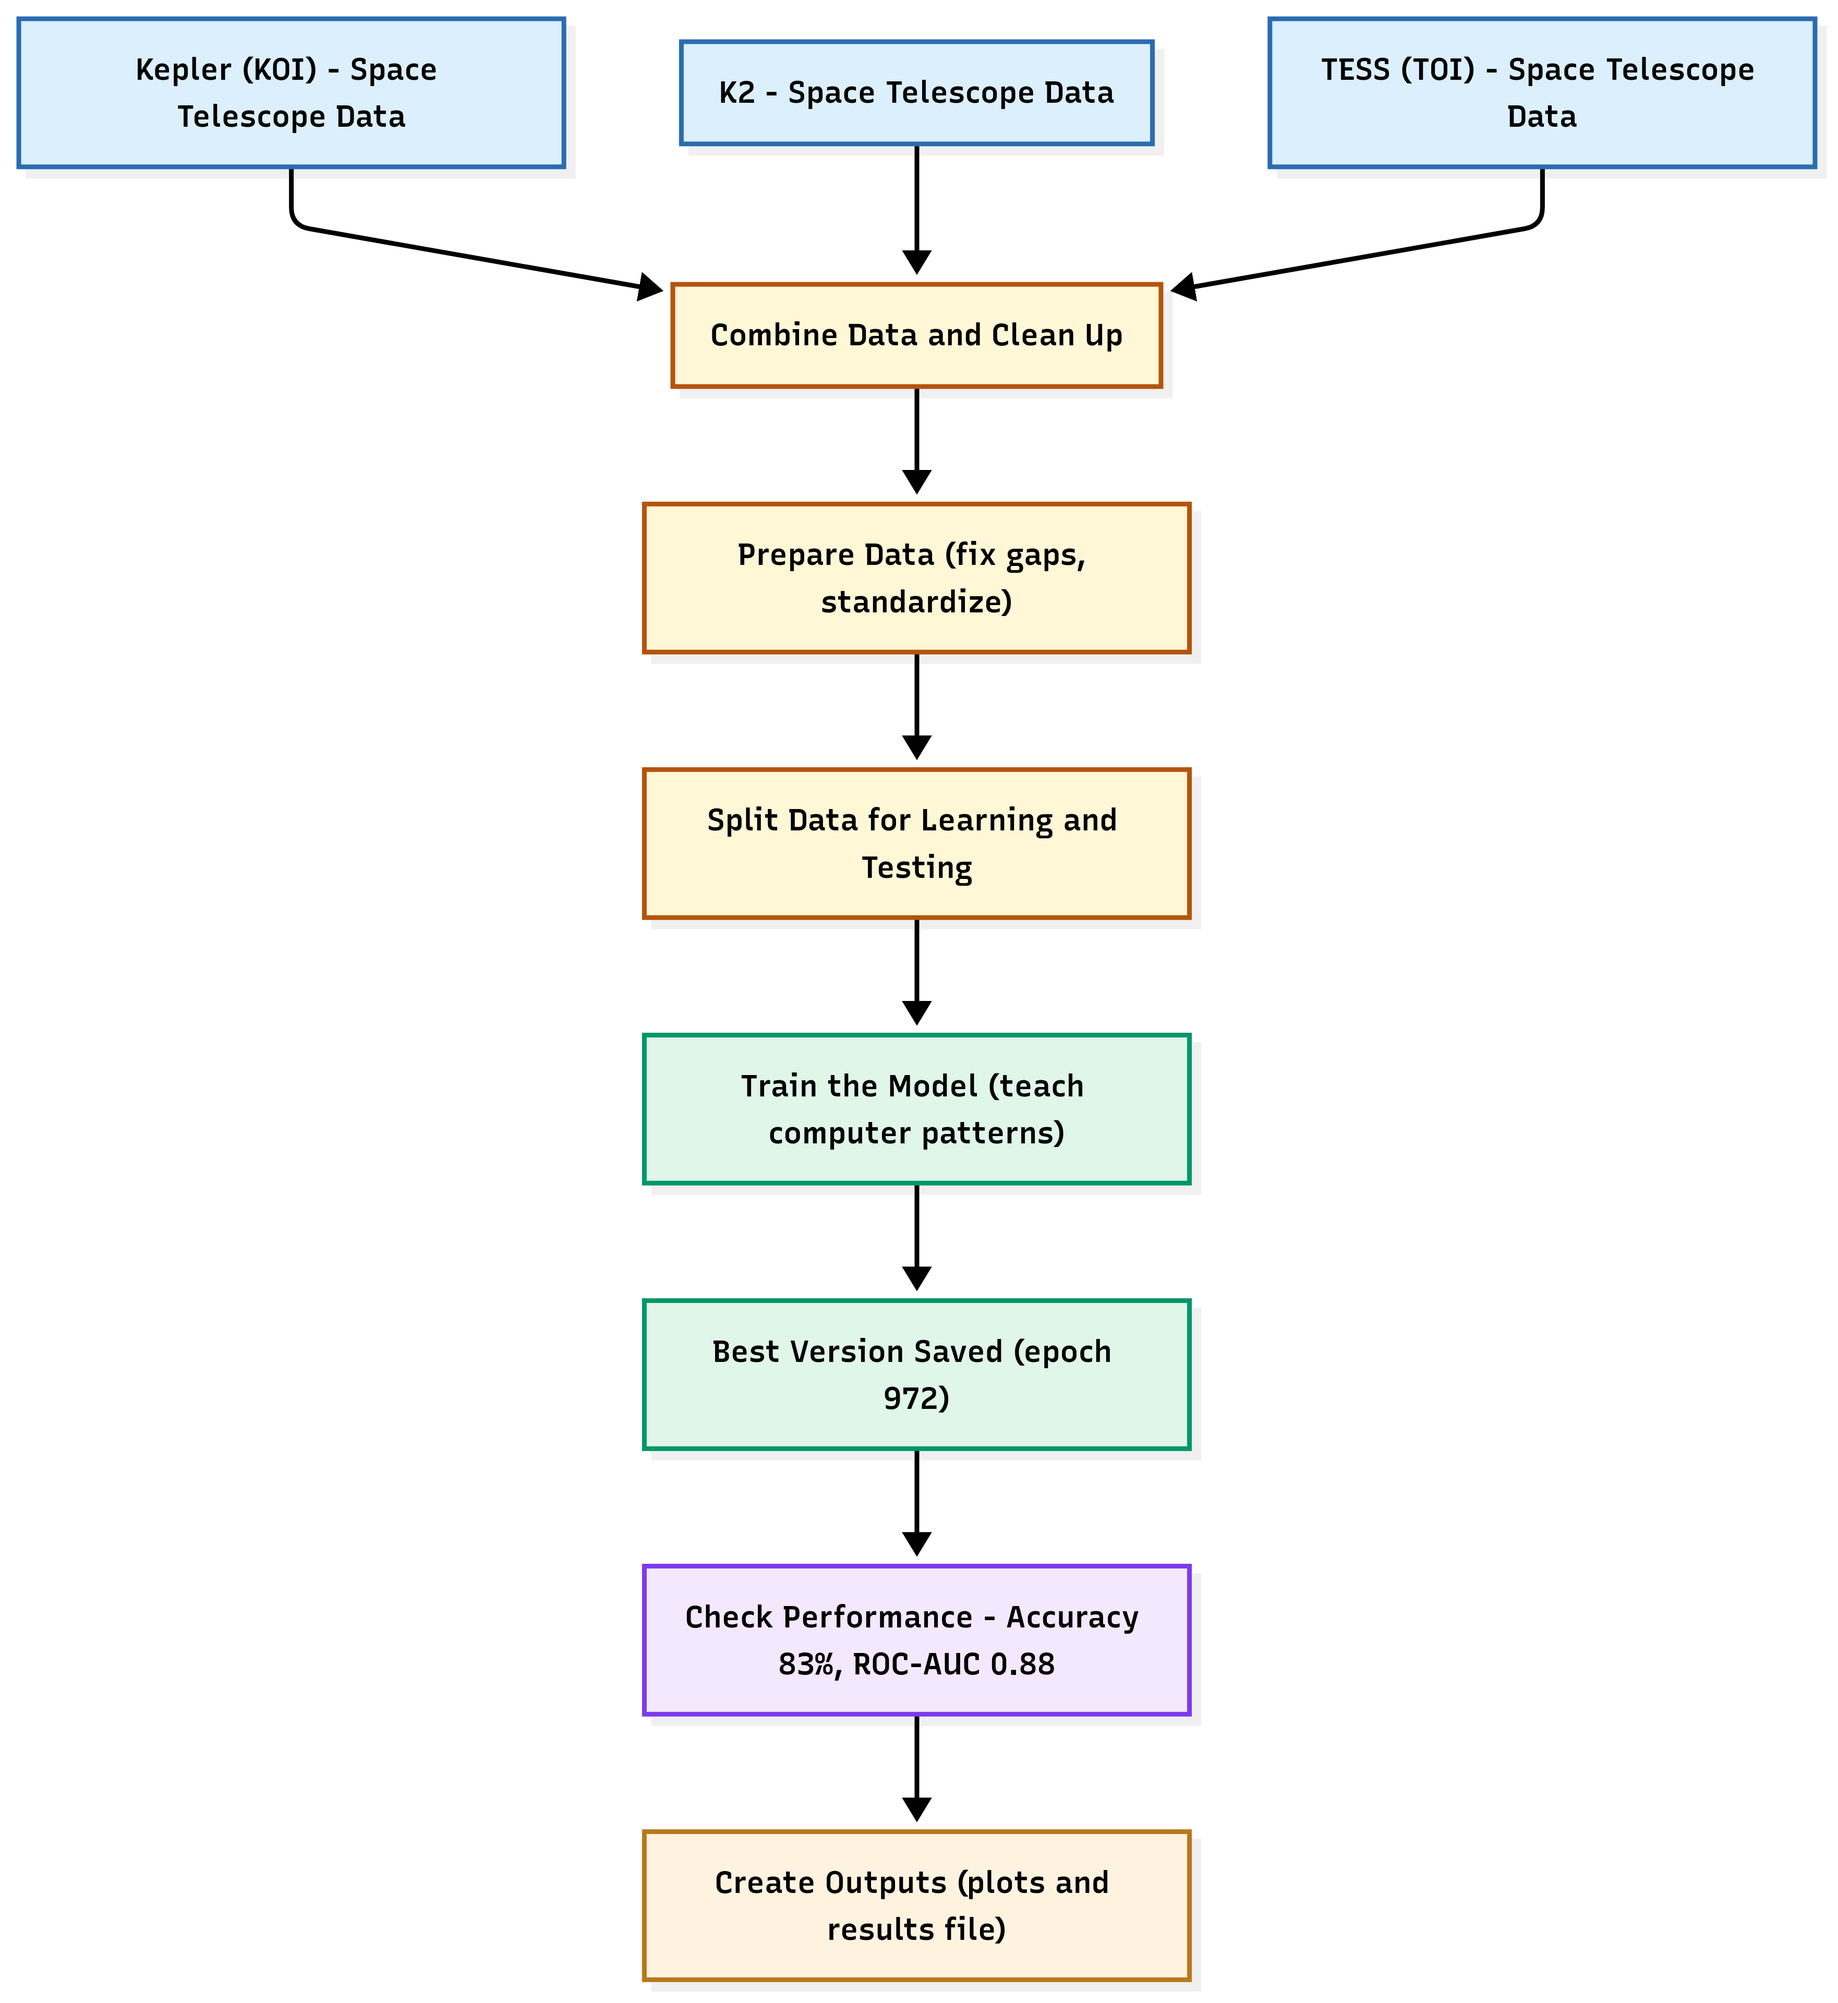
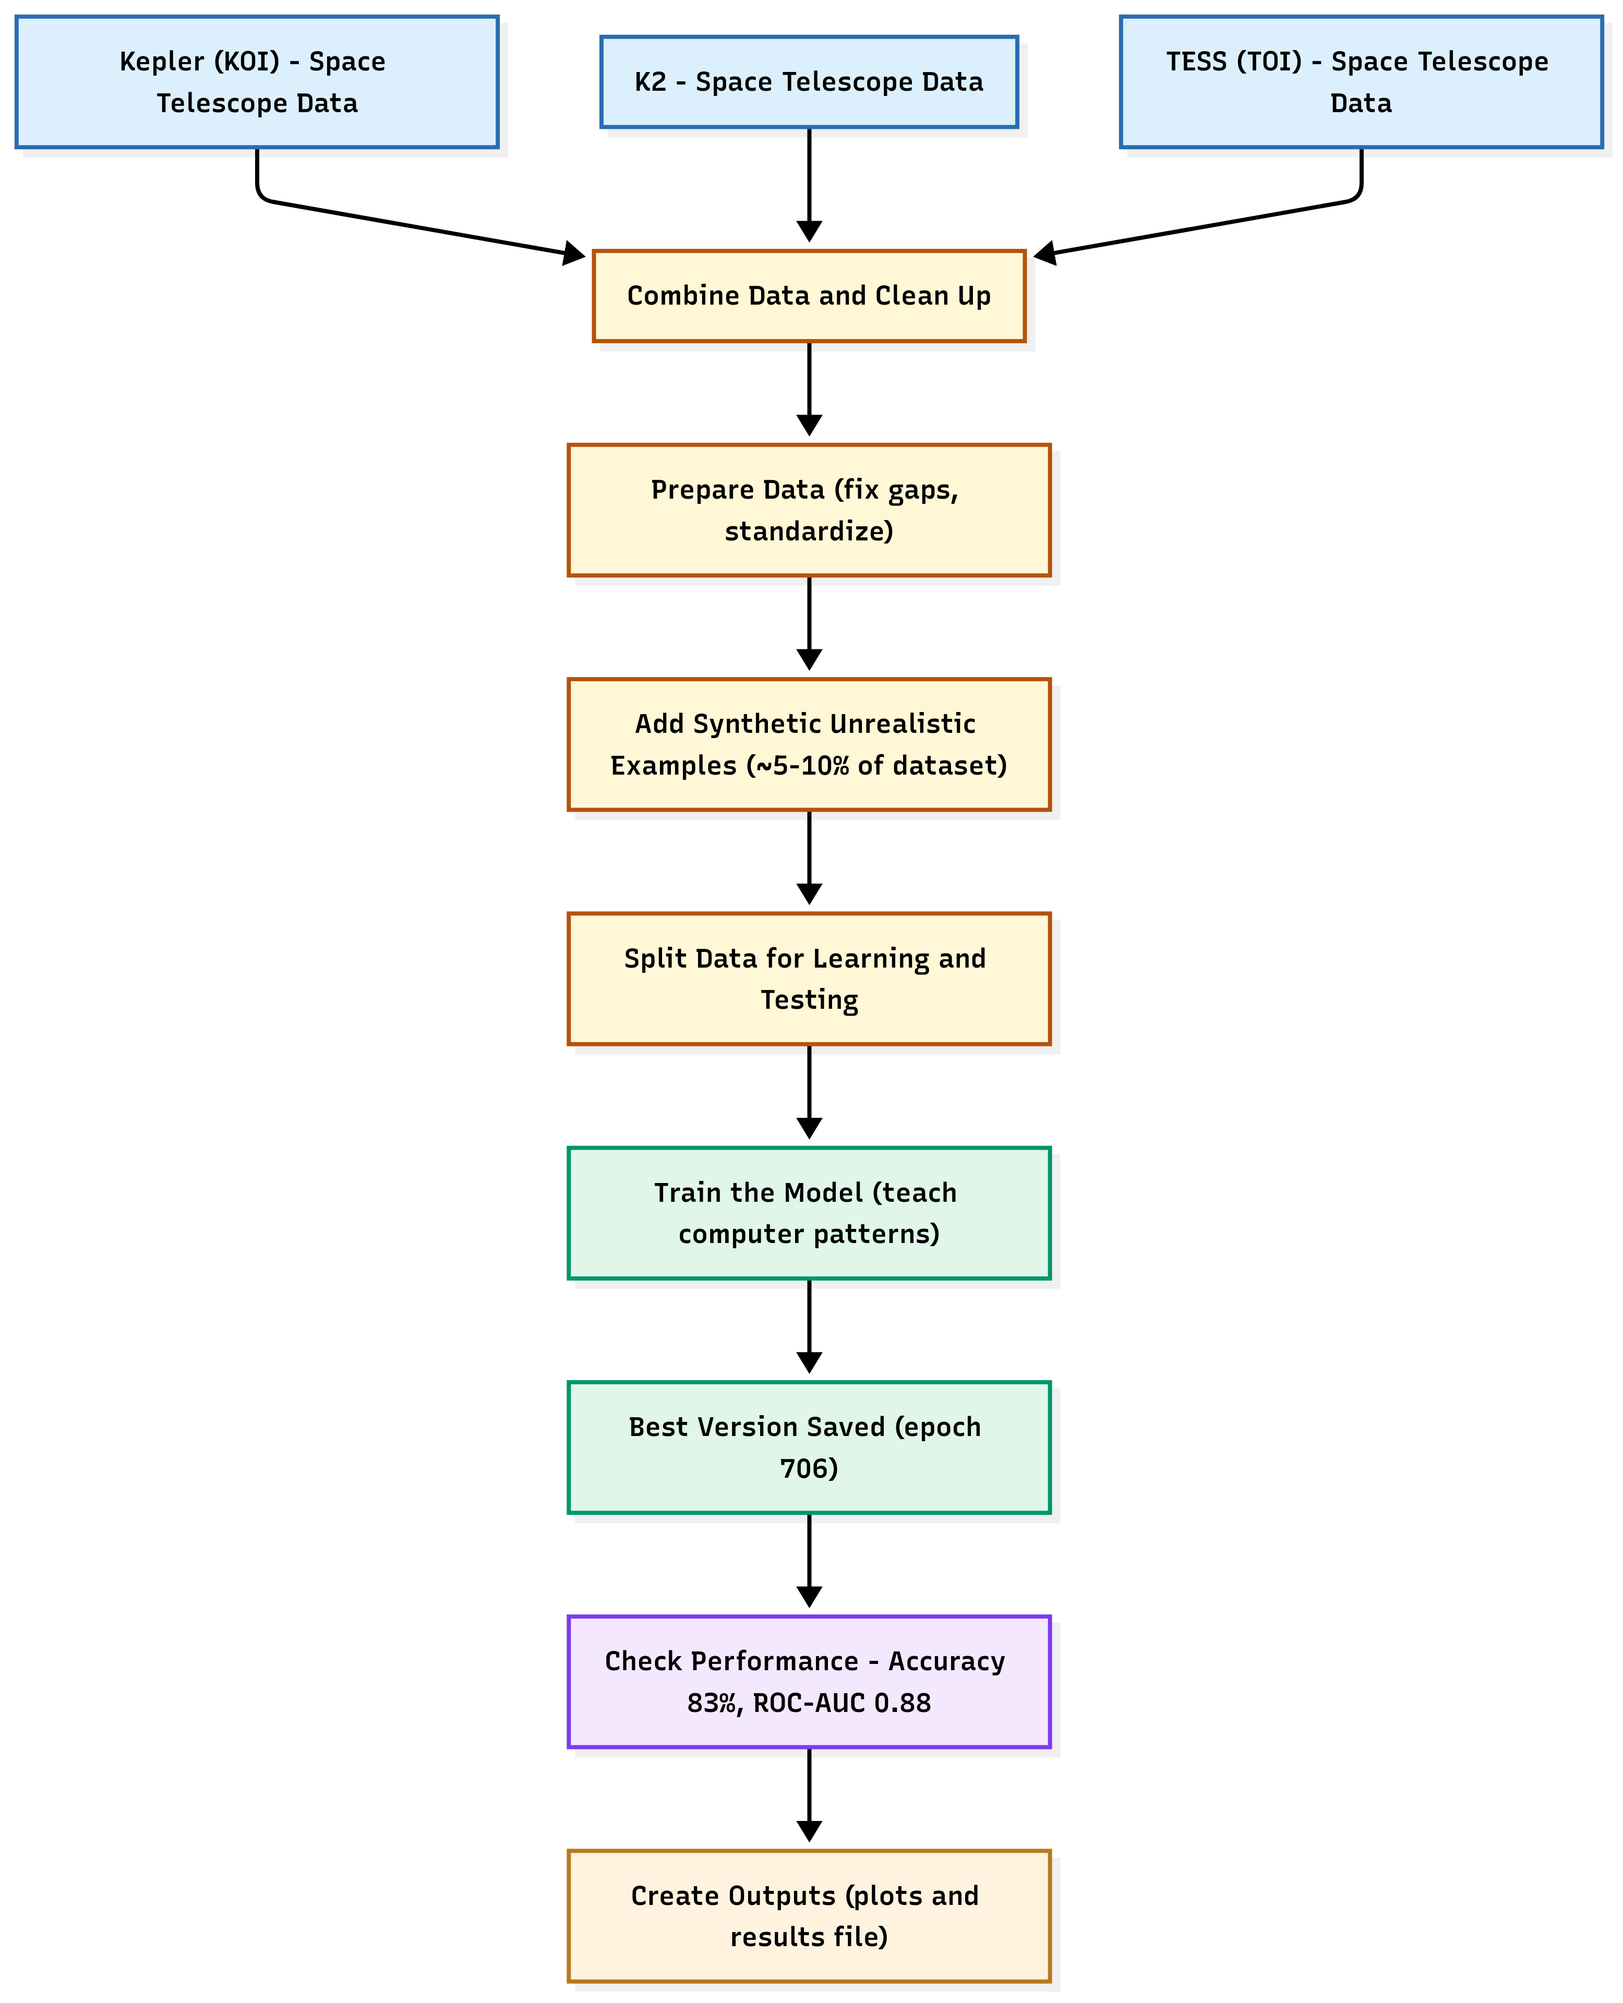
flow

diff --git a/README.md b/README.md
@@ -4,104 +4,76 @@
 
 ```mermaid
 flowchart TD
-  %% Data
-  KEP["Kepler (KOI) - Space Telescope Data"]
-  K2["K2 - Space Telescope Data"]
-  TESS["TESS (TOI) - Space Telescope Data"]
-
-  MERGE["Combine Data and Clean Up"]
-  FE["Prepare Data (fix gaps, standardize)"]
-  SYN["Add Synthetic Unrealistic Examples (~5-10% of dataset)"]
-  SPLIT["Split Data for Learning and Testing"]
-
-  TRAIN["Train the Model (teach computer patterns)"]
-  CKPT["Best Version Saved (epoch 972)"]
-  EVAL["Check Performance - Accuracy 83%, ROC-AUC 0.88"]
-  ART["Create Outputs (plots and results file)"]
-
-  %% Layout
-  KEP --> MERGE
-  K2  --> MERGE
-  TESS --> MERGE
-
-  MERGE --> FE --> SYN --> SPLIT
-  SPLIT --> TRAIN --> CKPT --> EVAL --> ART
-
-  %% Classes
-  classDef data fill:#dbeffc,stroke:#2b6cb0,stroke-width:2px,color:#000,font-size:13px,font-weight:600;
-  classDef prep fill:#fff7d6,stroke:#b45309,stroke-width:2px,color:#000,font-size:13px,font-weight:600;
-  classDef train fill:#dff6e9,stroke:#059669,stroke-width:2px,color:#000,font-size:13px,font-weight:600;
-  classDef eval  fill:#f4e8ff,stroke:#7c3aed,stroke-width:2px,color:#000,font-size:13px,font-weight:600;
-  classDef art   fill:#fff3e0,stroke:#b7791f,stroke-width:2px,color:#000,font-size:13px,font-weight:600;
-
-  class KEP,K2,TESS data;
-  class MERGE,FE,SYN,SPLIT prep;
-  class TRAIN,CKPT train;
-  class EVAL eval;
-  class ART art;
+    KEP["Kepler (KOI) - Space Telescope Data"] --> MERGE["Combine Data and Clean Up"]
+    K2["K2 - Space Telescope Data"] --> MERGE
+    TESS["TESS (TOI) - Space Telescope Data"] --> MERGE
+    MERGE --> FE["Prepare Data (fix gaps, standardize)"]
+    FE --> SYN["Add Synthetic Unrealistic Examples (~5-10% of dataset)"]
+    SYN --> SPLIT["Split Data for Learning and Testing"]
+    SPLIT --> TRAIN["Train the Model (teach computer patterns)"]
+    TRAIN --> CKPT["Best Version Saved (epoch 706)"]
+    CKPT --> EVAL["Check Performance - Accuracy 83%, ROC-AUC 0.88"]
+    EVAL --> ART["Create Outputs (plots and results file)"]
+     KEP:::data
+     MERGE:::prep
+     K2:::data
+     TESS:::data
+     FE:::prep
+     SYN:::prep
+     SPLIT:::prep
+     TRAIN:::train
+     CKPT:::train
+     EVAL:::eval
+     ART:::art
+    classDef data fill:#dbeffc,stroke:#2b6cb0,stroke-width:2px,color:#000,font-size:13px,font-weight:600
+    classDef prep fill:#fff7d6,stroke:#b45309,stroke-width:2px,color:#000,font-size:13px,font-weight:600
+    classDef train fill:#dff6e9,stroke:#059669,stroke-width:2px,color:#000,font-size:13px,font-weight:600
+    classDef eval  fill:#f4e8ff,stroke:#7c3aed,stroke-width:2px,color:#000,font-size:13px,font-weight:600
+    classDef art   fill:#fff3e0,stroke:#b7791f,stroke-width:2px,color:#000,font-size:13px,font-weight:600
 ```
 
 ### Web
 
 ```mermaid
 flowchart TD
-  CKPT["Best Model Saved (epoch 972)"]
-  LOAD["Load Model"]
-  STATIC["Static Visuals (images and charts)"]
-  START["Start Server"]
-  DEPLOY["Infrastructure (Render / Gunicorn)\nSettings: PORT, Debug"]
-
-  subgraph API["Available Endpoints"]
-    PRED["Single Prediction (JSON)"]
-    BATCH["Batch Prediction (CSV upload)"]
-    INFO["Model Info"]
-    VIS["Visualizations"]
+ subgraph API["Available Endpoints"]
+        PRED["Single Prediction (JSON)"]
+        BATCH["Batch Prediction (CSV upload)"]
+        VIS["Visualizations"]
   end
-
-  %% Single prediction flow (with inline feedback)
-  REQ1["User sends data (JSON)"]
-  PRE1["Prepare input"]
-  MODEL1["Run model → prediction"]
-  POST1["Format result"]
-  RESP1["Send back result (JSON)"]
-  FEEDBACK["Optional user feedback → fine-tune + update model"]
-
-  %% Batch flow
-  FILE["Upload CSV file"]
-  PARSE["Read CSV rows"]
-  LOOP["Process each row with model"]
-  AGG["Combine results into table"]
-  RESP2["Send back results (JSON)"]
-
-  %% Structure
-  CKPT --> LOAD
-  LOAD --> START
-  START --> API
-  STATIC --> VIS
-  DEPLOY --> START
-
-  %% Flows
-  API --> PRED
-  API --> BATCH
-  API --> INFO
-  API --> VIS
-
-  %% Prediction + inline feedback
-  PRED --> REQ1 --> PRE1 --> MODEL1 --> POST1 --> RESP1 --> FEEDBACK --> CKPT
-
-  %% Batch
-  BATCH --> FILE --> PARSE --> LOOP --> AGG --> RESP2
-
-  %% Styles for readability
-  classDef artifact fill:#fff3e0,stroke:#b45309,stroke-width:2px,color:#000,font-size:13px,font-weight:600;
-  classDef server fill:#e6fffb,stroke:#059669,stroke-width:2px,color:#000,font-size:13px,font-weight:600;
-  classDef endpoint fill:#e8f6ff,stroke:#2563eb,stroke-width:2px,color:#000,font-size:13px,font-weight:600;
-  classDef flow fill:#fff9db,stroke:#b7791f,stroke-width:1.5px,color:#000,font-size:12px,font-weight:600;
-  classDef feedback fill:#fef2f2,stroke:#dc2626,stroke-width:2px,color:#000,font-size:12px,font-weight:600;
-
-  class CKPT,STATIC artifact;
-  class START,DEPLOY server;
-  class PRED,BATCH,INFO,VIS endpoint;
-  class REQ1,PRE1,MODEL1,POST1,RESP1,FILE,PARSE,LOOP,AGG,RESP2 flow;
-  class FEEDBACK feedback;
+    CKPT["Best Model Saved (epoch 706)"] --> LOAD["Load Model"]
+    LOAD --> START["Start Server"]
+    START --> API
+    STATIC["Static Visuals (images and charts)"] --> VIS
+    PRED --> REQ1["User sends data (JSON)"]
+    REQ1 --> PRE1["Prepare input"]
+    PRE1 --> MODEL1["Run model → prediction"]
+    MODEL1 --> POST1["Format result"]
+    POST1 --> RESP1["Send back result (JSON)"]
+    BATCH --> FILE["Upload CSV file"]
+    FILE --> PARSE["Read CSV rows"]
+    PARSE --> LOOP["Process each row with model"]
+    LOOP --> AGG["Combine results into table"]
+    AGG --> RESP2["Send back results (JSON)"]
+    API --> PRED & BATCH & VIS
+     PRED:::endpoint
+     BATCH:::endpoint
+     VIS:::endpoint
+     CKPT:::artifact
+     START:::server
+     STATIC:::artifact
+     REQ1:::flow
+     PRE1:::flow
+     MODEL1:::flow
+     POST1:::flow
+     RESP1:::flow
+     FILE:::flow
+     PARSE:::flow
+     LOOP:::flow
+     AGG:::flow
+     RESP2:::flow
+    classDef artifact fill:#fff3e0,stroke:#b45309,stroke-width:2px,color:#000,font-size:13px,font-weight:600
+    classDef server fill:#e6fffb,stroke:#059669,stroke-width:2px,color:#000,font-size:13px,font-weight:600
+    classDef endpoint fill:#e8f6ff,stroke:#2563eb,stroke-width:2px,color:#000,font-size:13px,font-weight:600
+    classDef flow fill:#fff9db,stroke:#b7791f,stroke-width:1.5px,color:#000,font-size:12px,font-weight:600
 ```
